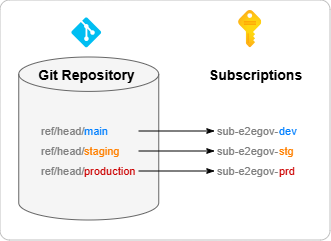
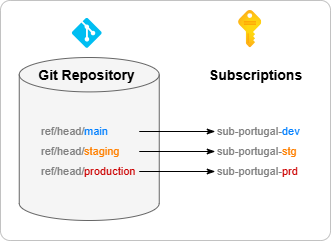
Enhance README.md to reflect international scope of Building Materials company; update business domain references to include Operational Companies (OpCo's) and adjust permissions accordingly.

diff --git a/README.md b/README.md
@@ -38,10 +38,10 @@ End‑to‑end governance is platform‑agnostic. This repository illustrates on
 > [!IMPORTANT]
 > Please read this scenario carefully to understand the decisions behind the model used in this sample repository.
 
-Any governance model must be tied to the organization's business rules, which are reflected in any technical implementation of access controls. This example model uses a fictitious _Building Materials_ company with the following common scenario (with business requirements):
+Any governance model must be tied to the organization's business rules, which are reflected in any technical implementation of access controls. This example model uses a fictitious international _Building Materials_ company with the following common scenario (with business requirements):
 
 - **Align with business domains and permissions models**  
-  The organization has many vertical business domains, such as "_hardware_" and "_finishing_," which operate largely independently. In each business domain, there are three levels or privileges, which are mapped to distinct `*-admins`, `*-devs` or `*-stake(holder)s` Microsoft Entra groups. This allows developers and stakeholders to be targeted when configuring permissions in the cloud.
+  The international organization has many Operational Companies (OpCo's), such as "_The portugal_" and "_netherlands_," which operate largely independently. In each OpCo, there are three levels or privileges, which are mapped to distinct `*-admins`, `*-devs` or `*-stake(holder)s` Microsoft Entra groups. This allows developers and stakeholders to be targeted when configuring permissions in the cloud.
 
 - **Staged deployment environments**  
   Every business domain has two environments:
@@ -54,7 +54,7 @@ Any governance model must be tied to the organization's business rules, which ar
   Every application should implement Azure DevOps not just for _continuous integration_ (CI), but also for _continuous deployment_ (CD). For example, deployments can be automatically triggered by changes to the Git repository See [branch strategy diagram](#branch-strategy) sample.
 
 - **Cloud journey**  
-  The organization started with an isolated project model to accelerate the journey to the cloud. But now they are exploring options to break silos and encourage collaboration by creating the "_collaboration_" and "_building materials_" projects.
+  The organization started with an isolated project model to accelerate the OpCo's journey to the cloud. But now they are exploring options to break silos and encourage collaboration by creating an `ccoe` project; Cloud Center of Excellence (CCoE).
 
 ### Branch strategy
 
@@ -73,7 +73,7 @@ This diagram illustrates that connecting Azure Resource Manager (ARM) and CI/CD 
 [![e2egov-design](./.assets/e2egov-design.png)](./.assets/e2egov-design-large.png)  
 <sub>Image: End-to-end governance diagram</sub>
 
-> To make the concept easier to understand, the diagram only illustrates the `hardware` business domain. Other business domains would look similar and use the same naming conventions.
+> To make the concept easier to understand, the diagram only illustrates the `portugal` business domain. Other business domains would look similar and use the same naming conventions.
 
 ### Workflow
 The numbering reflects the order in which administrators and enterprise architects think about and configure their cloud resources.
@@ -102,11 +102,11 @@ The numbering reflects the order in which administrators and enterprise architec
 
    | Principal | Production | Development |
    | :-- | :-- | :-- |
-   | `sg-hardware-stakes` | _Reader_ | _Reader_ |
-   | `sg-hardware-devs` | _Contributor_ | _Owner_ |
-   | `sg-hardware-admins` | _Owner_ | _Owner_ |
-   | `id-hardware-dev` | - | _Custom Role_ * |
-   | `id-hardware-prd` | _Custom Role_ * | - |
+   | `sg-portugal-stakes` | _Reader_ | _Reader_ |
+   | `sg-portugal-devs` | _Contributor_ | _Owner_ |
+   | `sg-portugal-admins` | _Owner_ | _Owner_ |
+   | `id-portugal-dev` | - | _Custom Role_ * |
+   | `id-portugal-prd` | _Custom Role_ * | - |
 
    > \* In real life scenarios you should create a _Custom Role_ that prevents a managed identity from removing any [management locks](https://learn.microsoft.com/en-us/azure/azure-resource-manager/management/lock-resources) that you've placed on your resources. This helps protect resources from accidental damage, such as database deletion. This can be easily done with the Bicep [avm/ptn/authorization/role-definition](https://github.com/Azure/bicep-registry-modules/tree/main/avm/ptn/authorization/role-definition) template from the [Azure Verified Modules](https://github.com/Azure/bicep-registry-modules) repo. An [example](iac/authorization/role-definition/main.bicep) is included in this demo project.
 
@@ -121,17 +121,17 @@ The numbering reflects the order in which administrators and enterprise architec
 
    | Group name | Scope | Azure role | Azure DevOps role |
    | :-- | :-- | :-- | :-- |
-   | `sg-hardware-collab-on-repo-a` ¹ | - | - | Repo-scoped permissions only |
-   | `sg-hardware-stakes` | `rg-hardware-prd` | Reader | Reader |
-   | `sg-hardware-devs` | `rg-hardware-dev` | Contributor | Contributor |
-   | `sg-hardware-admins` | `rg-hardware-prd` | Owner | Project Administrators |
-   | `sg-finishing-stakes` | `rg-hardware-prd` | Reader | Reader |
-   | `sg-finishing-devs` | `rg-finishing-dev` | Contributor | Contributor |
-   | `sg-finishing-admins` | `rg-finishing-prd` | Owner | Project Administrators |
+   | `sg-portugal-collab-on-repo-a` ¹ | - | - | Repo-scoped permissions only |
+   | `sg-portugal-stakes` | `rg-portugal-prd` | Reader | Reader |
+   | `sg-portugal-devs` | `rg-portugal-dev` | Contributor | Contributor |
+   | `sg-portugal-admins` | `rg-portugal-prd` | Owner | Project Administrators |
+   | `sg-netherlands-stakes` | `rg-portugal-prd` | Reader | Reader |
+   | `sg-netherlands-devs` | `rg-netherlands-dev` | Contributor | Contributor |
+   | `sg-netherlands-admins` | `rg-netherlands-prd` | Owner | Project Administrators |
    | `sg-shared-devs` | `rg-shared-dev` | Contributor | Contributor |
    | `sg-shared-admins` | `rg-shared-prd` | Owner | Project Administrators |
 
-   ¹ In a scenario of limited cross‑project collaboration, such as the `hardware` team inviting the `finishing` team to collaborate on a _single_ repository, they would use a specific `*-hardware-collab-on-repo-a` group with limited repo-scoped permissions only, all other content remains invisible. Please read [A Cross-project Collaboration Scenario](docs/cross-project-collaboration-scenario.md) for more details.
+   ¹ In a scenario of limited cross‑project collaboration, such as the `portugal` team inviting the `netherlands` team to collaborate on a _single_ repository, they would use a specific `*-portugal-collab-on-repo-a` group with limited repo-scoped permissions only, all other content remains invisible. Please read [A Cross-project Collaboration Scenario](docs/cross-project-collaboration-scenario.md) for more details.
 
 6. **Service connections**  
    In Azure DevOps, a [Service Connection](https://learn.microsoft.com/en-us/azure/devops/pipelines/library/service-endpoints) is a generic wrapper around a credential. This demo creates a service connection that holds the [App Registration](https://learn.microsoft.com/en-us/azure/devops/pipelines/release/configure-workload-identity?view=azure-devops&tabs=app-registration) and [Workload Identity Federation](https://learn.microsoft.com/en-us/azure/devops/pipelines/release/configure-workload-identity?view=azure-devops&tabs=managed-identity) configuration. Project Administrators can configure access to this [protected resource](https://learn.microsoft.com/en-us/azure/devops/pipelines/security/resources#protected-resources) when needed, such as when requiring human approval before deploying. This reference architecture has two minimum protections on the service connection:
